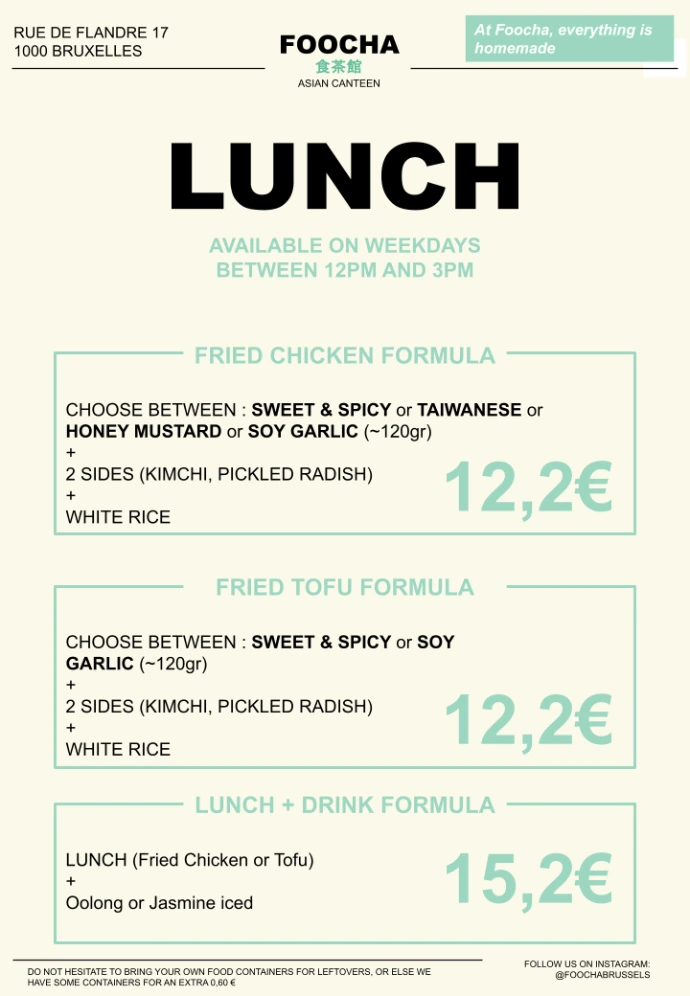
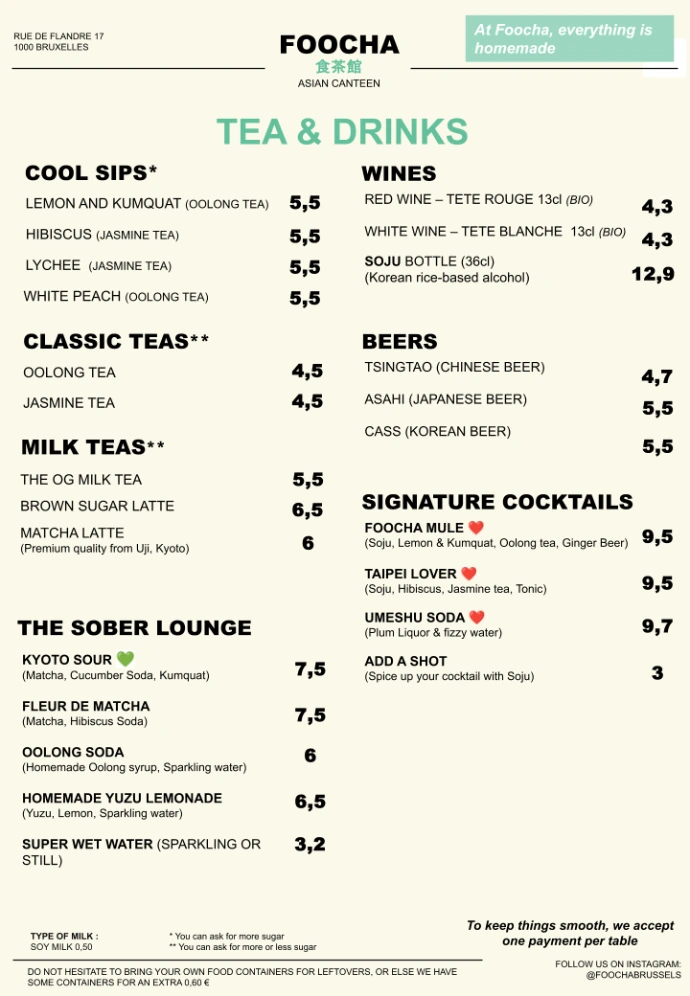
Footer dans le vrai theme Foocha (menthe + noir), fix fichiers menu
- corrige le mauvais mapping des 3 fichiers menu telecharges (main-menu/
  drinks/lunch etaient permutes, verifie au pixel)
- recolore le footer avec la vraie identite Foocha (menthe #9cd6c0,
  echantillonnee sur leurs propres visuels menu) plutot que le rouge
  neon / encre empruntes a BTC pour le reste du site

Changed region(s): [[0.0304, 0.0934, 1.0, 0.996], [0.0, 0.0311, 0.213, 0.0622]]

diff --git a/css/styles.css b/css/styles.css
@@ -455,7 +455,10 @@ body.offcanvas-open { overflow: hidden; }
    Footer — emblème
    ========================================================================== */
 
-.site-footer { background: var(--c-cream); color: var(--c-jade); }
+/* recolorée dans la vraie identité Foocha (menthe #9cd6c0 + noir sur ivoire,
+   échantillonnée sur leurs propres menus) plutôt que le rouge néon / encre
+   empruntés à BTC pour le reste du site */
+.site-footer { background: var(--c-cream); color: var(--c-mint-deep); }
 .footer-top { padding-block: clamp(4rem, 8vw, 7rem) 3rem; text-align: center; }
 .footer-emblem { width: 9rem; height: 9rem; margin-inline: auto 1.6rem auto; }
 .footer-emblem svg { width: 100%; height: 100%; }
@@ -463,22 +466,23 @@ body.offcanvas-open { overflow: hidden; }
   font-family: var(--font-display);
   font-weight: 700;
   font-size: var(--size-footer-address);
-  color: var(--c-neon-red);
+  color: var(--c-ink);
   line-height: 1.5;
 }
-.footer-address a { text-decoration: underline; text-underline-offset: 4px; }
+.footer-address a { text-decoration: underline; text-underline-offset: 4px; text-decoration-color: var(--c-mint); }
 .footer-social { display: flex; justify-content: center; gap: 1rem; margin-top: 2rem; }
 .footer-social a {
   width: 4.4rem; height: 4.4rem; border-radius: 50%;
-  background: var(--c-sky-soft);
+  background: var(--c-mint-pale);
+  color: var(--c-mint-deep);
   display: flex; align-items: center; justify-content: center;
-  transition: background .2s ease;
+  transition: background .2s ease, color .2s ease;
 }
-.footer-social a:hover { background: var(--c-bronze); color: var(--c-cream); }
+.footer-social a:hover { background: var(--c-mint); color: var(--c-ink); }
 .footer-social svg { width: 1.8rem; height: 1.8rem; fill: currentColor; }
 
 .footer-bottom {
-  background: var(--c-ink);
+  background: var(--c-mint-deep);
   color: var(--c-cream);
   font-family: var(--font-ui);
   font-size: var(--size-footer-legal);

diff --git a/index.html b/index.html
@@ -196,9 +196,9 @@
   <div class="footer-top container">
     <div class="footer-emblem" aria-hidden="true">
       <svg viewBox="0 0 100 100">
-        <circle cx="50" cy="50" r="46" fill="none" stroke="#f00a00" stroke-width="3"/>
-        <circle cx="50" cy="50" r="38" fill="none" stroke="#f00a00" stroke-width="1"/>
-        <text x="50" y="64" text-anchor="middle" font-family="Fraunces, serif" font-weight="900" font-size="46" fill="#f00a00">F</text>
+        <circle cx="50" cy="50" r="46" fill="none" stroke="#9cd6c0" stroke-width="3"/>
+        <circle cx="50" cy="50" r="38" fill="none" stroke="#9cd6c0" stroke-width="1"/>
+        <text x="50" y="64" text-anchor="middle" font-family="Fraunces, serif" font-weight="900" font-size="46" fill="#1e1419">F</text>
       </svg>
     </div>
     <p class="footer-address">

diff --git a/css/tokens.css b/css/tokens.css
@@ -25,6 +25,14 @@ html {
   --c-bronze-light:#c9a66b; /* bronze éclairci : lisible sur --c-ink / --c-blood */
   --c-neon-green: #1fc24a;
 
+  /* ---- vraie identité Foocha (échantillonnée sur leurs propres visuels
+     menu / Instagram : menthe #9cd6c0 + noir sur fond ivoire) — utilisée
+     pour recolorer le footer dans le thème de Foocha plutôt que celui
+     emprunté à BTC */
+  --c-mint:       #9cd6c0;
+  --c-mint-deep:  #2f6650; /* menthe assombrie : 5.7:1 sur --c-cream (AA texte) */
+  --c-mint-pale:  #e3f3ec;
+
   /* ---- typographies ----
      Remplacement libre : Albertus Nova -> Fraunces (seule famille Google Fonts
      couvrant 300/400/700/900 avec un vrai caractère glyphique/gravé ; Marcellus
